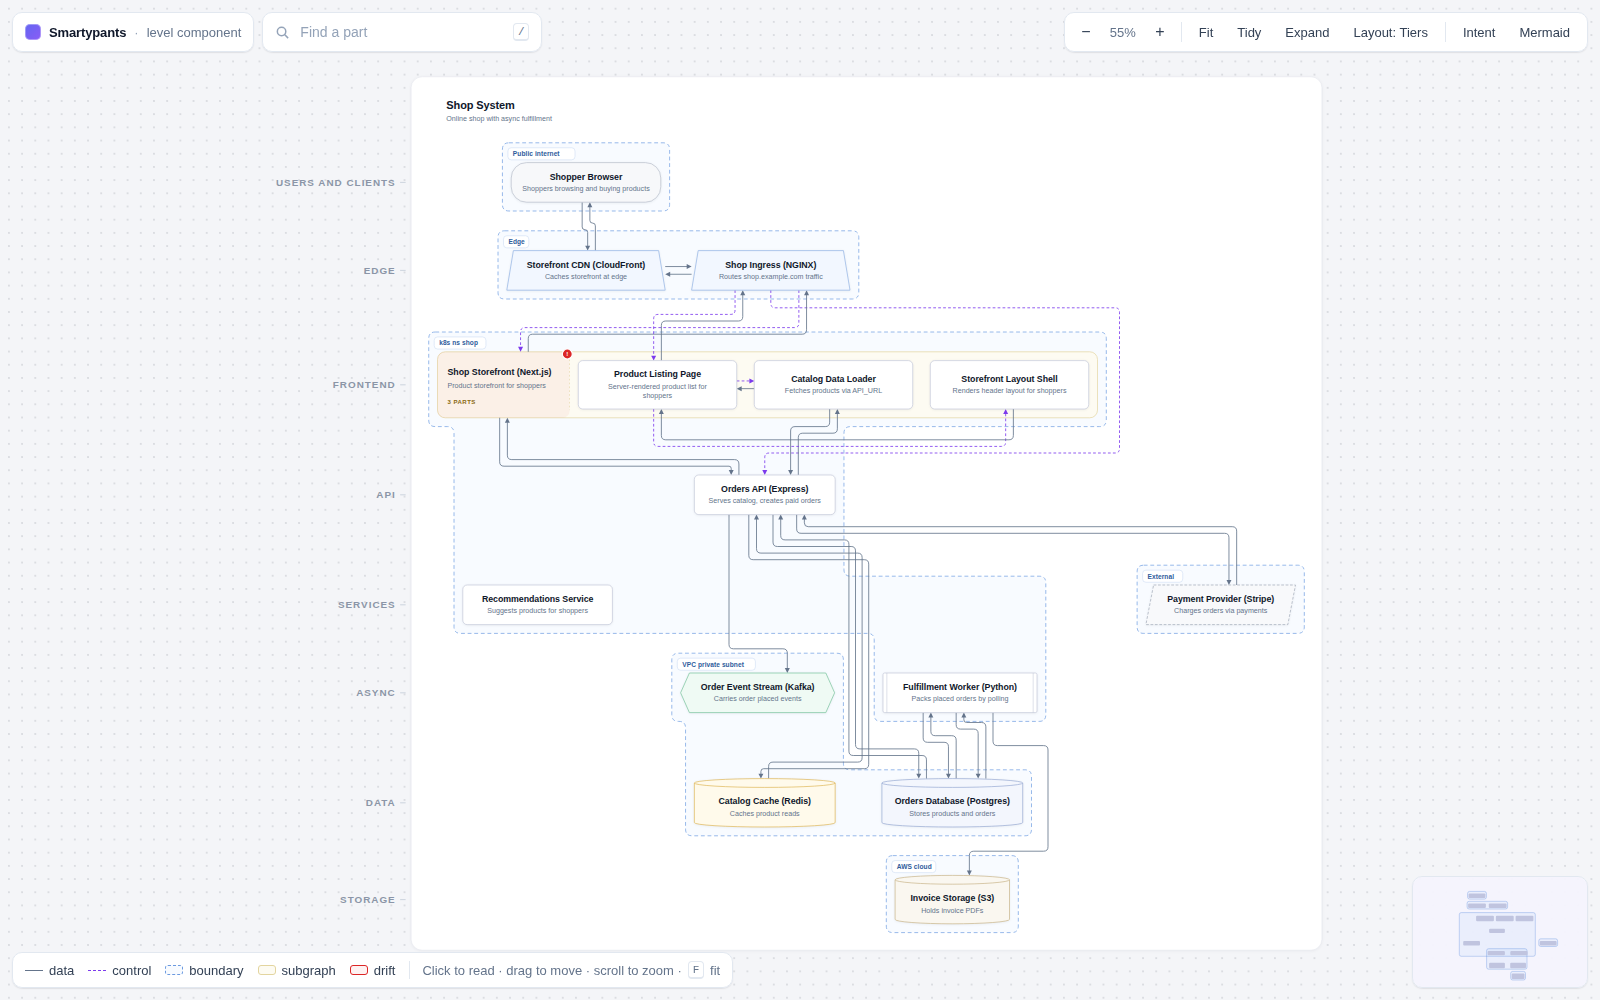
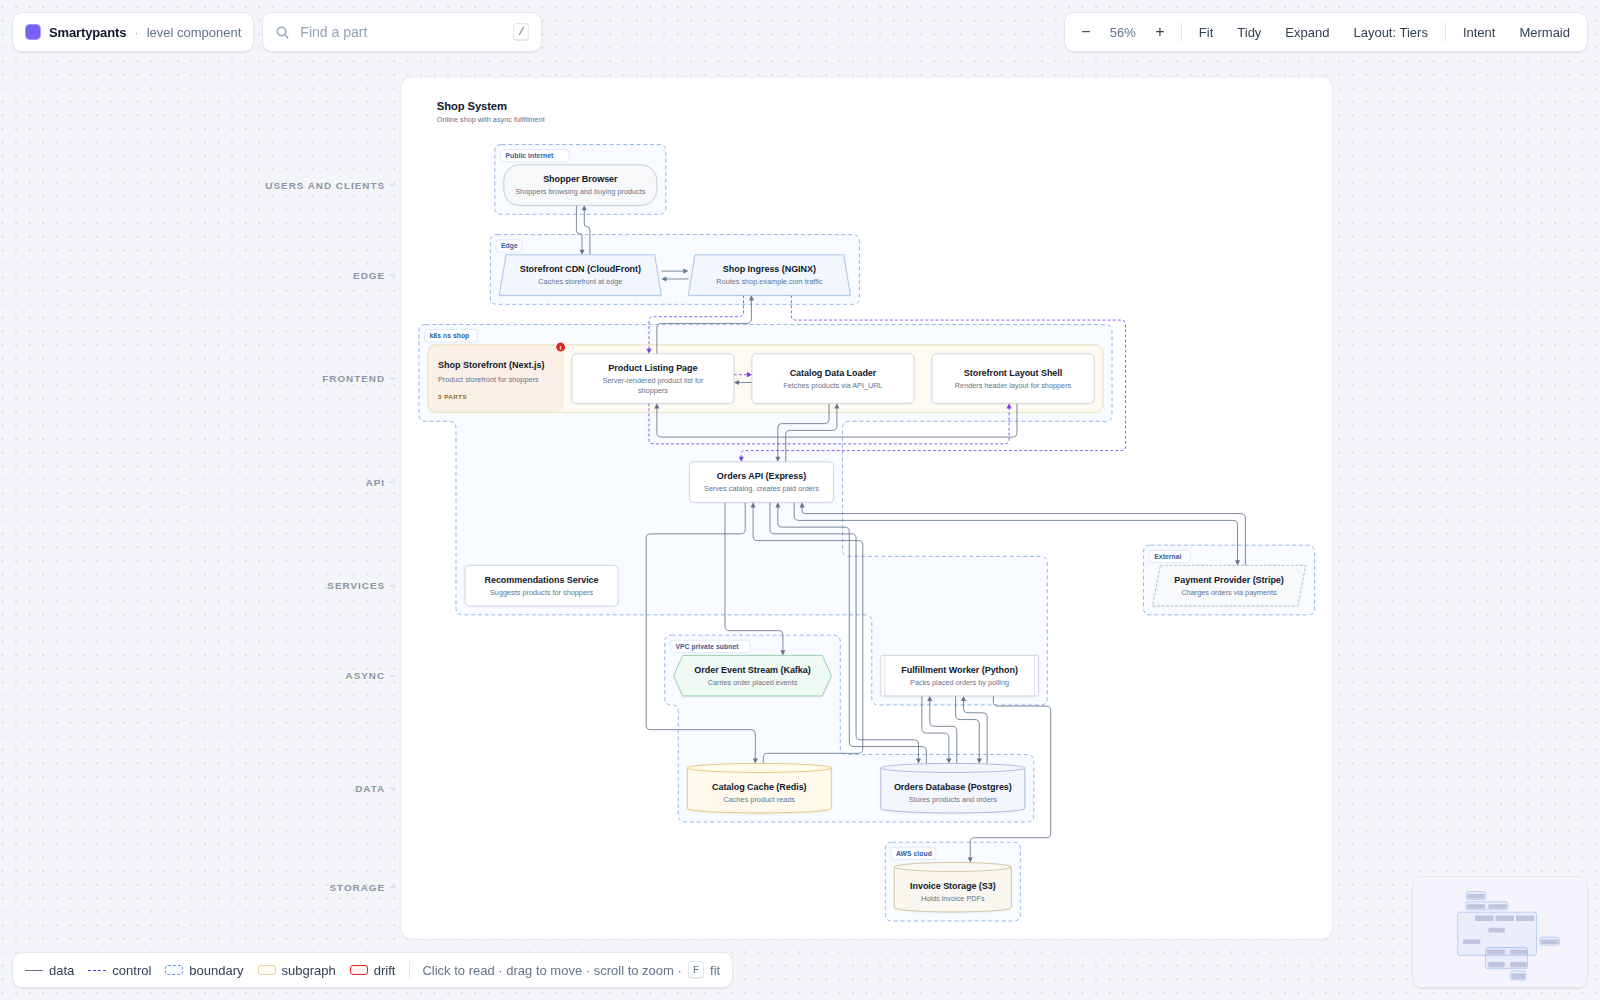
Drop a parent's arrow when an open child draws the same flow; add the hero GIF
When a component is drawn open, its own arrow to X is redundant with a
module's arrow to X and doubled every flow (url-shortener: 18 -> 13 arrows).
Hero GIF renders the recorded YouTube top-K session on the new canvas with
captions in their own band. ARCHITECTURE.md describes row wrapping,
subgraph frames, and arrow routing.

Claude-Session: https://claude.ai/code/session_01JbSigbWMint4URagskEE4n

diff --git a/test/spa.test.js b/test/spa.test.js
@@ -174,3 +174,22 @@ test("page scripts load on a window global and the scene builder still draws the
   assert.equal(labels.includes(weeklyDrift.difference), true);
   assert.equal(labels.includes("Receipt intake"), true);
 });
+
+test("an open part's arrow is dropped once a child draws the same flow", () => {
+  const scene = buildScene({
+    nodes: [
+      { id: "sys", kind: "system", name: "Shortener" },
+      { id: "redirect", kind: "component", name: "Redirect Service", parentId: "sys", tier: "service" },
+      { id: "handler", kind: "module", name: "Handler", parentId: "redirect" },
+      { id: "cache", kind: "component", name: "Redirect Cache", parentId: "sys", tier: "cache" },
+      { id: "table", kind: "component", name: "Link Table", parentId: "sys", tier: "database" },
+    ],
+    connections: [
+      { id: "a", fromId: "redirect", toId: "cache", kind: "data", label: "Lookup long URL" },
+      { id: "b", fromId: "handler", toId: "cache", kind: "data", label: "Lookup long URL" },
+      { id: "c", fromId: "redirect", toId: "table", kind: "data", label: "Fetch on miss" },
+    ],
+  });
+  const ids = scene.edges.map((edge) => edge.id).sort();
+  assert.deepEqual(ids, ["b", "c"]);
+});

diff --git a/docs/ARCHITECTURE.md b/docs/ARCHITECTURE.md
@@ -129,11 +129,19 @@ to right inside a layer, and network or trust boundaries are frames.
 | Storage | `storage` | journey |
 
 Journey order walks the flows breadth-first from the top-most callers, then each row is pulled
-toward the parts it talks to (median of neighbours) without overlaps. Components with modules
-are subgraphs laid out the same way inside. Arrows leave the bottom of a caller and enter the
-top of the callee; replies go back up on their own ports; a flow that must cross a busy row goes
-through the nearest free channel between boxes. `tier` and `zone` come from the builder; when a
-part has no tier it is inferred from its shape and name.
+toward the parts it talks to (median of neighbours) without overlaps. A row with more than six
+boxes, or one that would make the picture over twice as wide as tall, wraps into sub-rows:
+callers inside the row above the parts they call, otherwise even rows in journey order, under
+one row label. Components with modules are subgraphs: the frame carries the component's title in
+a side panel, and its modules sit inside in the same order. Once a subgraph is open, the
+component's own arrow to X is dropped when one of its modules already draws a flow to X.
+
+Arrows leave the bottom of a caller and enter the top of the callee; a request and its reply run
+as a parallel pair on adjacent ports; long runs use the gaps between rows, spread onto separate
+tracks, and gap heights are sized to the arrows they carry. Labels go where they hit no box or
+other label, else they show on hover or selection. Each boundary is one outline around its parts
+and never overlaps another. Everything sits on an 8px grid. `tier` and `zone` come from the
+builder; when a part has no tier it is inferred from its shape and name.
 
 ## Knowing the code
 

diff --git a/README.md b/README.md
@@ -167,7 +167,7 @@ Details: [docs/ARCHITECTURE.md](docs/ARCHITECTURE.md) · [docs/INTENTCODE.md](do
 ## Develop
 
 ```sh
-npm test                      # 83 tests, no network
+npm test                      # 84 tests, no network
 npm run eval                  # live interview transcripts on the Meta API (cents)
 npm run eval:triage           # held-out triage benchmark
 node scripts/build-site.mjs   # website demo into site/demo
